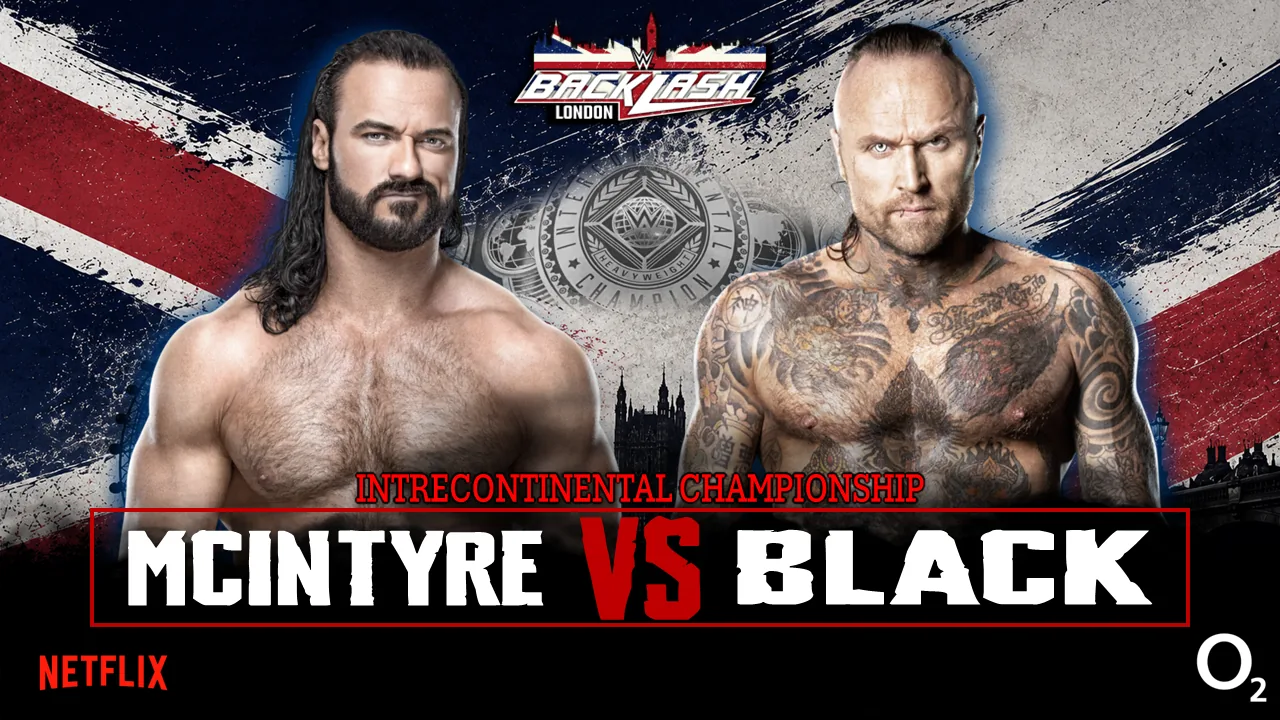
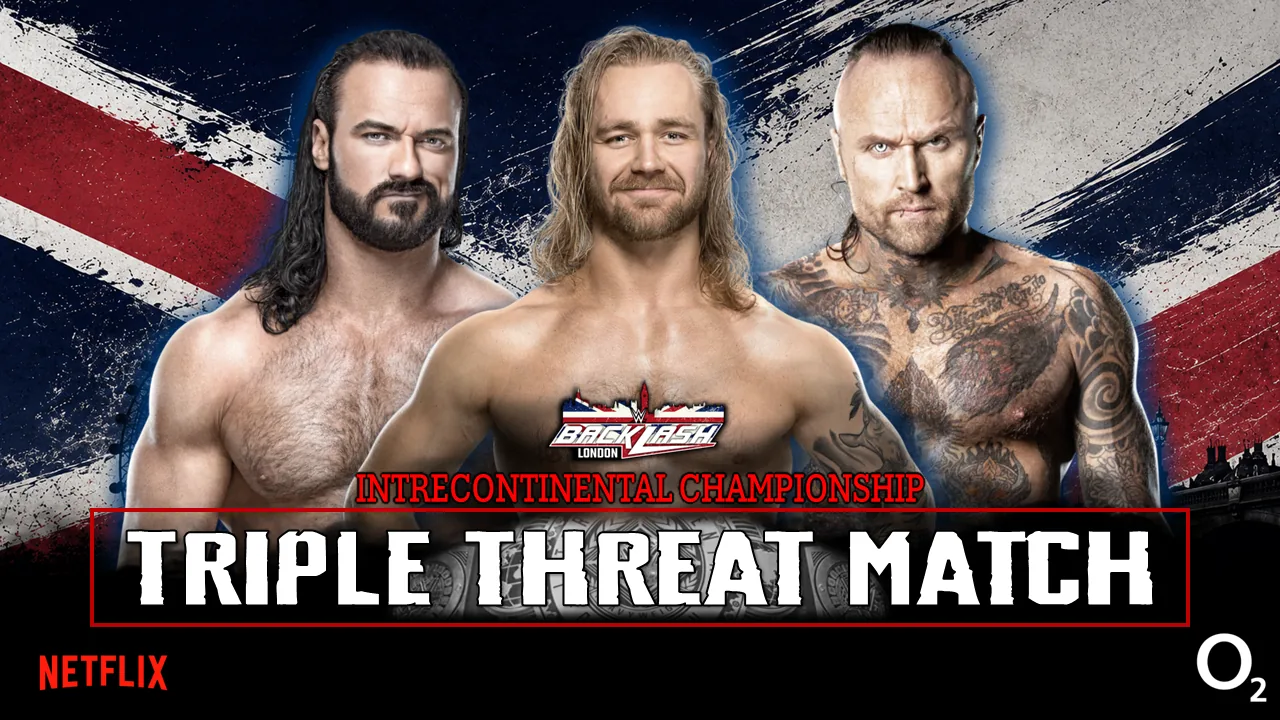
Backlash PPV

Changed region(s): [[0.0938, 0.0, 0.9062, 0.8861], [0.0, 0.6722, 0.0625, 0.7639]]

diff --git a/src/RosterData.ts b/src/RosterData.ts
@@ -11,6 +11,19 @@ export interface Wrestler {
   tag?: string;
   tag2?: string;
   members?: string[];
+  // Tag teams only, all optional:
+  // - formerMembers: wrestlers no longer on the team, kept here so their
+  //   past title reigns with this team still show on their own profile.
+  // - aliases: other names this team's championship reigns might be
+  //   recorded under in Firestore (e.g. an abbreviation), so those records
+  //   still get matched to this team.
+  // - disbanded: hides the team from the live Roster/RAW/Smackdown tag-team
+  //   listings while still keeping it (and its members/aliases) around so
+  //   past title reigns keep showing on each former member's own profile.
+  //   A disbanded team is never rendered, so `src` can just be "".
+  formerMembers?: string[];
+  aliases?: string[];
+  disbanded?: boolean;
 }
 
 const rosterData: Record<string, Wrestler[]> = {
@@ -311,13 +324,13 @@ const rosterData: Record<string, Wrestler[]> = {
         { src: "/Images/Roster/TavionHights.webp", name: "Tavion Hights", gender: "Man", tag: "A"},
         { src: "/Images/Roster/TeganNox.webp", name: "Tegan Nox", gender: "Women", tag: "A"},
         { src: "/Images/Roster/TerryFunk.webp", name: "Terry Funk", gender: "Man", tag: "L"},
-        { src: "/Images/Roster/TheFiend.webp", name: "The Fiend", gender: "Man", tag: "R"},
+        { src: "/Images/Roster/TheFiend.webp", name: "Fiend", gender: "Man", tag: "R"},
         { src: "/Images/Roster/TheGreatKhali.webp", name: "The Great Khali", gender: "Man", tag: "L"},
         { src: "/Images/Roster/TheGreatMuta.webp", name: "The Great Muta", gender: "Man", tag: "L"},
         { src: "/Images/Roster/TheHurricane.webp", name: "The Hurricane", gender: "Man", tag: "L"},
         { src: "/Images/Roster/TheIronSheik.webp", name: "The Iron Sheik", gender: "Man", tag: "L"},
-        { src: "/Images/Roster/TheMiz.webp", name: "The Miz", gender: "Man", tag: "R"},
-        { src: "/Images/Roster/TheRock.webp", name: "The Rock", gender: "Man", tag: "L"},
+        { src: "/Images/Roster/TheMiz.webp", name: "Miz", gender: "Man", tag: "R"},
+        { src: "/Images/Roster/TheRock.webp", name: "Rock", gender: "Man", tag: "L"},
         { src: "/Images/Roster/TheaHail.webp", name: "Thea Hail", gender: "Women", tag: "R"},
         { src: "/Images/Roster/TiffanyStratton.webp", name: "Tiffany Stratton", gender: "Women", tag: "SD"},
         { src: "/Images/Roster/TitoSantana.webp", name: "Tito Santana", gender: "Man", tag: "L"},
@@ -378,7 +391,7 @@ const rosterData: Record<string, Wrestler[]> = {
     { src: "/Images/Roster/TagTeam/HardyBoys.webp", name: "Hardy Boys", tag: "SD", members: ["Jeff Hardy","Matt Hardy"]},
     { src: "/Images/Roster/TagTeam/LuchaBrothers.webp", name: "Lucha Brothers", tag: "R", members: ["Rey Fenix","Penta"]},
     { src: "/Images/Roster/TagTeam/LWO.webp", name: "LWO", tag: "R", members: ["Cruz Del Toro","Joaquin Wilde"]},
-    { src: "/Images/Roster/TagTeam/MCMG.webp", name: "MCMG", tag: "R", members: ["Chris Sabin","Alex Shelley"]},
+    { src: "/Images/Roster/TagTeam/MCMG.webp", name: "Motor City Machine Guns", tag: "R", members: ["Chris Sabin","Alex Shelley"], aliases: ["MCMG"]},
     { src: "/Images/Roster/TagTeam/NewBloodline.webp", name: "New Bloodline", tag: "SD", members: ["Solo Sikoa","Talla Tonga","Tama Tonga","Tank","Tonga Loa","JC Mateo"]},
     { src: "/Images/Roster/TagTeam/NewDay.webp", name: "New Day", tag: "R", members: ["Kofi Kingston","Xavier Woods"]},
     { src: "/Images/Roster/TagTeam/PrettyDeadly.webp", name: "Pretty Deadly", tag: "SD", members: ["Kit Wilson","Elton Prince"]},
@@ -386,6 +399,9 @@ const rosterData: Record<string, Wrestler[]> = {
     { src: "/Images/Roster/TagTeam/Usos.webp", name: "The Usos", tag: "R", members: ["Jimmy Uso","Jey Uso"]},
     { src: "/Images/Roster/TagTeam/VikingRaiders.webp", name: "Viking Raiders", tag: "SD", members: ["Ivar","Erik"]},
     { src: "/Images/Roster/TagTeam/WyattSix.webp", name: "Wyatt Six", tag: "R", members: ["Dexter Lumis","Erick Rowan","Joe Gacy","Uncle Howdy","Nikki Cross"]},
+    { src: "", name: "DIY", tag: "", members: [], formerMembers: ["Johnny Gargano", "Tommaso Ciampa"], aliases: ["#DIY"], disbanded: true },
+    { src: "", name: "New Catch Republic", tag: "", members: [], formerMembers: ["Tyler Bate", "Pete Dunne"], disbanded: true },
+
   ],
 };
 
@@ -393,7 +409,7 @@ const rosterData: Record<string, Wrestler[]> = {
 // team is assigned to a brand here, every wrestler listed in its `members`
 // is looked up by name in ALL and given that same tag automatically.
 rosterData["Tag Teams"].forEach((team) => {
-  if (!team.tag || !team.members) return;
+  if (!team.tag || !team.members || team.disbanded) return;
   team.members.forEach((memberName) => {
     const member = rosterData.ALL.find((w) => w.name === memberName);
     if (member) {
@@ -409,14 +425,19 @@ export function normalizeWrestlerName(name: string): string {
   return name.trim().toLowerCase().replace(/^the\s+/, "");
 }
 
-// Every tag team name a wrestler belongs to, so championship data recorded
-// under the team's name (e.g. "The Usos") can also be attributed to each
-// individual member (e.g. "Jey Uso").
+// Every name a wrestler's tag team(s) might be recorded under — the team's
+// own name plus any aliases (e.g. "MCMG" for "Motor City Machine Guns") —
+// so championship data recorded under any of those can be attributed to
+// each individual member, whether they're a current or former member.
 export function getTeamNamesForMember(name: string): string[] {
   const key = normalizeWrestlerName(name);
   return rosterData["Tag Teams"]
-    .filter((team) => team.members?.some((member) => normalizeWrestlerName(member) === key))
-    .map((team) => team.name);
+    .filter(
+      (team) =>
+        team.members?.some((member) => normalizeWrestlerName(member) === key) ||
+        team.formerMembers?.some((member) => normalizeWrestlerName(member) === key)
+    )
+    .flatMap((team) => [team.name, ...(team.aliases ?? [])]);
 }
 
 export default rosterData;

diff --git a/src/hooks/useTitleHistory.ts b/src/hooks/useTitleHistory.ts
@@ -62,17 +62,31 @@ export function useAllTitleHistory() {
       }
 
       // Tag team titles are recorded under the team's name (e.g. "The
-      // Usos"), not each wrestler's — attribute those reigns to every
-      // member too so their individual profile shows the belts they've won.
+      // Usos") or an alias (e.g. "MCMG" for "Motor City Machine Guns"), not
+      // each wrestler's — attribute those reigns to every current AND
+      // former member too, so their individual profile shows the belts
+      // they've won even after leaving the team.
       for (const team of rosterData["Tag Teams"]) {
-        const teamHistory = result[normalizeWrestlerName(team.name)];
-        if (!teamHistory || !team.members) continue;
+        const teamNames = [team.name, ...(team.aliases ?? [])];
+        const teamHistory: Record<string, TitleReignSummary> = {};
 
-        for (const member of team.members) {
+        for (const teamName of teamNames) {
+          for (const title of result[normalizeWrestlerName(teamName)] ?? []) {
+            const existing = teamHistory[title.abbrev];
+            teamHistory[title.abbrev] = existing
+              ? { ...existing, reigns: existing.reigns + title.reigns }
+              : { ...title };
+          }
+        }
+
+        const members = [...(team.members ?? []), ...(team.formerMembers ?? [])];
+        if (Object.keys(teamHistory).length === 0 || members.length === 0) continue;
+
+        for (const member of members) {
           const memberKey = normalizeWrestlerName(member);
           const memberHistory = (result[memberKey] ??= []);
 
-          for (const title of teamHistory) {
+          for (const title of Object.values(teamHistory)) {
             const existing = memberHistory.find((t) => t.abbrev === title.abbrev);
             if (existing) {
               existing.reigns = Math.max(existing.reigns, title.reigns);

diff --git a/src/PPVPages/Backlash/Backlash.tsx b/src/PPVPages/Backlash/Backlash.tsx
@@ -3,7 +3,7 @@ import PPVShow, { Match, PPVEvent } from "../../PPVShow";
 const matchCard2028: Match[] = [
   { match: "Lola Vice Vs Lyra Valkyria Vs Piper Niven Vs Jacy Jayne", title: "Women's Intercontinental Championship", type: "Fatal 4-Way Match" },
   { match: "Perros Del Mal Vs New Day", title: "Raw Tag Team Championships", type: "Tag Team Match" },
-  { match: "Drew Mcintyre Vs Aleister Black", title: "Intercontiental Championship", type: "Normal Match" },
+  { match: "Drew Mcintyre Vs Tyler Bate Vs Aleister Black", title: "Intercontiental Championship", type: "Triple Threat Match" },
   { match: "Roxanne Perez Vs Sol Ruca", title: "Women's United States Championship", type: "Normal Match" },
   { match: "Seth Rollins Vs Kevin Owens", title: "", type: "Extreme Rules Match" },
   { match: "Ricky Saints Vs Tommaso Ciampa Vs LA Knight", title: "United States Championship", type: "Triple Threat Match" },
@@ -61,7 +61,7 @@ const BacklashEvents: PPVEvent[] = [
     year: 2027,
     banner: "/Images/PPV/Backlash/BacklashHeader2028.webp",
     location: "O2 Arena, London, England",
-    date: "Saturday, May 6th, 2028",
+    date: "Saturday, May 20th, 2028",
     matches: matchCard2028,
     imageFolder: "Backlash/2028MC",
 

diff --git a/src/Home.tsx b/src/Home.tsx
@@ -14,12 +14,13 @@ const championAbbrevs = Object.keys(TITLE_CHAMPION_LABELS).sort(
 
 const menCount = rosterData.ALL.filter((w) => w.gender === "Man").length;
 const womenCount = rosterData.ALL.filter((w) => w.gender === "Women").length;
+const activeTagTeamCount = rosterData["Tag Teams"].filter((team) => !team.disbanded).length;
 
 const homeStats = [
   { value: rosterData.ALL.length, label: "Superstars" },
   { value: menCount, label: "Men" },
   { value: womenCount, label: "Women" },
-  { value: rosterData["Tag Teams"].length, label: "Tag Teams" },
+  { value: activeTagTeamCount, label: "Tag Teams" },
   { value: championAbbrevs.length, label: "Championships" },
 ];
 

diff --git a/src/WeeklyShow.tsx b/src/WeeklyShow.tsx
@@ -71,7 +71,7 @@ function WeeklyShowPage({
       .sort((a, b) => a.name.localeCompare(b.name));
 
     const enrichedTagTeams: WeeklyShowItem[] = rosterData["Tag Teams"]
-      .filter((item) => item.tag === tag)
+      .filter((item) => item.tag === tag && !item.disbanded)
       .map((item) => ({
         src: item.src,
         name: item.name,

diff --git a/src/Roster.tsx b/src/Roster.tsx
@@ -200,7 +200,11 @@ const RosterTabs: React.FC = () => {
   );
 
   const enrichedTagTeams = useMemo(
-    () => enrichWithChampionStatus(rosterData["Tag Teams"], nameToAbbrev),
+    () =>
+      enrichWithChampionStatus(
+        rosterData["Tag Teams"].filter((team) => !team.disbanded),
+        nameToAbbrev
+      ),
     [nameToAbbrev]
   );
 

diff --git a/src/currentPPV.ts b/src/currentPPV.ts
@@ -3,7 +3,7 @@
 export const currentPPV = {
   name: "Backlash",
   location: "O2 Arena, London, England",
-  date: "Saturday, May 6th 2028, 7e/5p",
+  date: "Saturday, May 20th 2028, 7e/5p",
   image: "/Images/PPV/Backlash/Backlash2028.webp",
   link: "/Backlash"
 };
